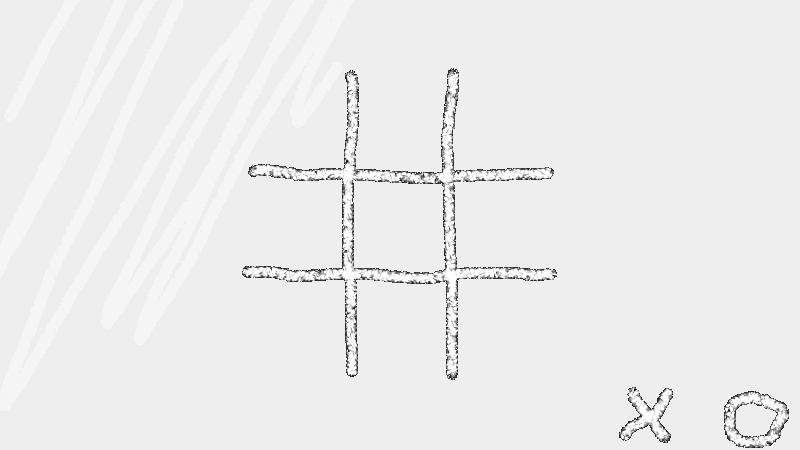
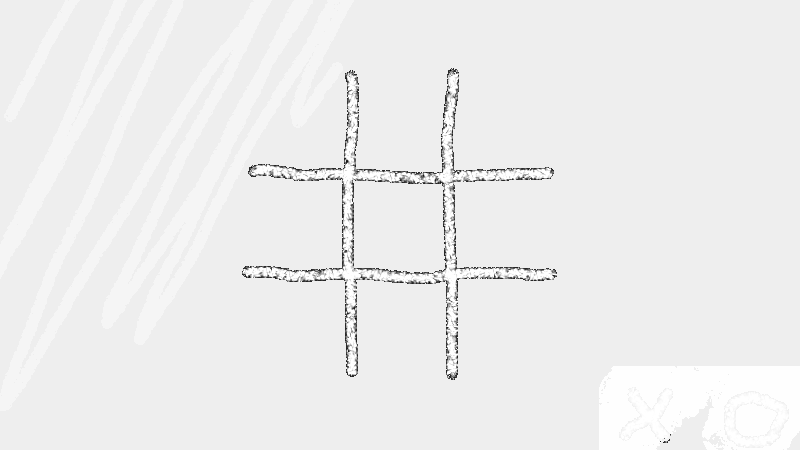
final touches

Changed region(s): [[0.9062, 0.8711, 1.0, 0.9956], [0.7812, 0.8711, 0.8438, 0.9956]]

diff --git a/pyg/gui.py b/pyg/gui.py
@@ -46,19 +46,24 @@ class Game:
         #self.board = pygame.transform.scale(self.board, (800, 800))
 
 
-    def update_screen(self):
+    def update_screen(self, x_off = 0, y_off = 0, winning_player = None):
         for x in range(3):
             for y in range(3):
                 if self.local_board[y][x] == 0:
                     pass
                 elif self.local_board[y][x] == 1:
                     rect = self.cross.get_rect()
-                    rect.x, rect.y = self.x_start + 100 * x, self.y_start + 100 * y
+                    rect.x, rect.y = self.x_start + x_off + 100 * x, self.y_start + y_off + 100 * y
                     self.screen.blit(self.cross, rect)
                 elif self.local_board[y][x] == 2:
                     rect = self.dot.get_rect()
-                    rect.x, rect.y = self.x_start + 100 * x, self.y_start + 100 * y
+                    rect.x, rect.y = self.x_start + x_off + 100 * x, self.y_start + y_off + 100 * y
                     self.screen.blit(self.dot, rect)
+        if not winning_player:
+            if self.current_player == 1:
+                self.screen.blit(self.cross,(10,10))
+            elif self.current_player == 2:
+                self.screen.blit(self.dot, (10,10))
 
     def get_cell(self, event):
         if event.type == pygame.MOUSEBUTTONUP:
@@ -128,6 +133,7 @@ class Game:
             for event in pygame.event.get():
                 if event.type == pygame.QUIT:
                     pygame.quit()
+                    quit()
                 if event.type == pygame.KEYDOWN:
                     if event.key == pygame.K_a:
                         print("AI mode selected")
@@ -242,16 +248,20 @@ class Game:
     def winning_player_screen(self, winning_player):
         text = self.font.render(f"player {winning_player} won... bearly", True, (255,0,0))
         bg_rect = self.board.get_rect()
+        
         while True:
             for event in pygame.event.get():
                 if event.type == pygame.QUIT:
                     pygame.quit()
+                    quit()
                 if event.type == pygame.KEYDOWN:
                     if event.key == pygame.K_SPACE:
                         print("quitting winning screen")
                         return
             self.screen.blit(self.board_empty, bg_rect)
-            self.screen.blit(text, (self.WIDTH // 2 - text.get_width() // 2, self.HEIGHT // 2 ))
+            self.screen.blit(text, (self.WIDTH // 2 - text.get_width() // 2, self.HEIGHT - 50  ))
+            self.screen.blit(self.board_grid, (0, -50))
+            self.update_screen(0, -50, winning_player)
             pygame.display.flip()
             
 
